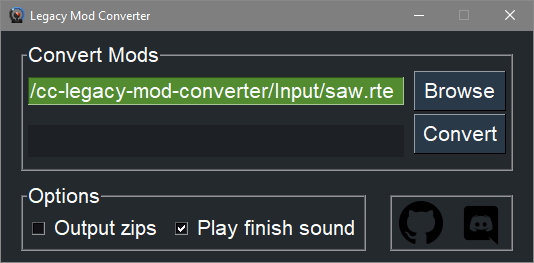
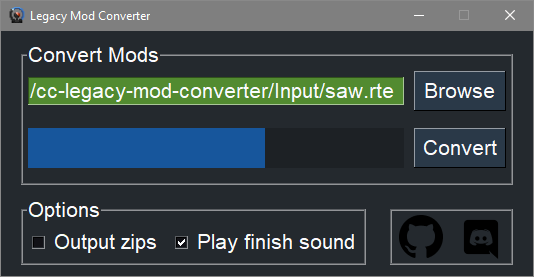
Made the README up-to-date.

diff --git a/Python/gui.py b/Python/gui.py
@@ -45,8 +45,8 @@ def init_window():
 			sg.FolderBrowse(size=(7, 1))
 		],
 		[
-			sg.ProgressBar(999, size=(34.2, 32), key="-PROGRESS BAR-"),
-			sg.Button("Convert", key="-CONVERT-", size=(7, 1), pad=((5, 0), (0, 15)))
+			sg.ProgressBar(999, size=(34.2, 40), key="-PROGRESS BAR-"),
+			sg.Button("Convert", key="-CONVERT-", size=(7, 1), pad=((5, 0), (14, 15)))
 		]
 		], title="Convert Mods")]
 	]

diff --git a/README.md b/README.md
@@ -5,31 +5,47 @@
 This project automates ***most*** of the conversion work required to convert the legacy (old) `Cortex Command` mods into `Cortex Command Community Project` compatible mods.
 
 ## Getting started
-Download the [***Legacy Mod Converter***](https://www.mediafire.com/file/cl3vfatqkoqmop1/Legacy+Mod+Converter.exe/file) program. Create a new folder and put your legacy mods that you want to convert in it. Run the Legacy Mod Converter program.
+Download the [***Legacy Mod Converter***](https://www.mediafire.com/file/cl3vfatqkoqmop1/Legacy+Mod+Converter.exe/file) program. Create a new folder and put your legacy mods that you want to convert in it. Open the Legacy Mod Converter program.
 
 <p align="center"><img src="Media/legacy-mod-converter-screenshot.png" alt="Legacy Mod Converter screenshot"></p>
 
 If you get a "`Microsoft Defender SmartScreen prevented an unrecognized app from starting. Running this app might put your PC at risk.`" popup message when trying to run the program you should press `More info` and then `Run anyway`.
 
 ## Disclaimer
-This program will do most of the conversion work for you, but some conversion steps are too hard to automate, so it's likely that `CCCP` will still crash or print errors in the console. If this happens you'll have to manually fix these issues in the legacy mod folder. If you want to properly fix these errors then you should download this repository and follow the instructions below so you can add your own conversion cases to `conversion_rules.py`.
+This program will do most of the conversion work for you, but even though this converter will already automatically apply more than 500 mod changes that have been made between Cortex Command and CCCP there are always more changes out there that haven't been added to the converter yet.
+
+It's for this reason that it's almost guaranteed that CCCP will still crash with a crash message or with errors in the console after conversion, but the point of this converter is to do 99% of the work for you, 100% is only realistic for some tiny mods. You'll want to manually fix these issues using the instructions in the next section.
+
+## What are conversion rules
+Conversion rules are a way of informing the program of the changes that have been made between Cortex Command and CCCP and how it can fix them. These conversion rules are stored in JSON files in the `ConversionRules` folder. You absolutely don't need to have any programming experience to start adding conversion rules to any of the JSON files.
+
+Take for example this line from `ConversionRules/Misc.json`:
+
+`"Round M16": "Round Ronin M16",`
+
+What this line of JSON says is that whenever the thing on the left is encountered in a mod, it should be replaced with whatever is on the right of it. So, this conversion rule says that whenever `Round M16` is encountered in a mod that's being converted it should be changed to `Round Ronin M16` by the converter.
+
+<p align="center"><img src="Media/conversion-rules-screenshot.png" alt="Conversion rules screenshot"></p>
 
 ## How to add your own conversion rules
-* Download Python 3 and this GitHub repository.
-* Change your directory to the `cc-legacy-mod-converter` repository in your terminal.
-* Run `python main.py` when you want to convert old mods.
-* `conversion_rules.py` has the `conversion_rules` dictionary inside of it. The dictionary contains entries that look like `'foo': 'bar',` which means means that any time `foo` is encountered in a legacy mod it will be replaced with `bar`. You can also add extra conversion cases to it; see the next sections on how to do this in detail.
+Open any of the JSON files in the `ConversionRules` folder and add the line `"": "",` in a similar manner to how the other lines are placed. You can then start putting stuff between the quotation marks on the left and right side like in the example in the section above. The converter will now know how to apply one more conversion rule.
+
+If you put the right things between the quotes that CCCP was complaining about then you can start the converter once more and you'll see that the crash/error should have disappeared. Repeat this process until the mod is fully converted and playable with no console errors (to check for console errors press the `` ` `` key in CCCP).
 
 ## Tutorials on constructing conversion rules efficiently
+
+### Programs that can help with creating conversion rules
+**You don’t need all of these programs to get started and feel free to use alternative programs:**
+
+* [Download “Everything”](https://voidtools.com/) - Like File Explorer on Windows. Very accurate and fast.
+* [Download “SourceTree”](https://www.sourcetreeapp.com/) - Like GitHub Desktop. Allows searching for specific words across all commits, which is super useful when for example you want to figure out what `Nanorifle` got changed to when that's crashing CCCP.
+* [Download “Notepad++”](https://notepad-plus-plus.org/downloads/) - Like Notepad. Allows mass replacing across thousands of files at once. You can also use an IDE like [VS Code](https://code.visualstudio.com/) for this purpose.
+
+### Tutorials on how to use the programs effectively.
 * [Fixing CCCP crashes/errors with the program Everything](https://github.com/cortex-command-community/Cortex-Command-Legacy-Mod-Converter/wiki/Fixing-CCCP-crashes-errors-with-the-program-Everything)
 
 ## Contributing
 Feel free to submit `Pull Requests` or `Issues` on this GitHub project for any additional cases that you'd like to have supported.
 
-**You don’t need all of these programs to get started and feel free to use alternative programs:**
-* [Download “Everything”](https://voidtools.com/) - Like File Explorer on Windows. Very fast.
-* [Download “SourceTree”](https://www.sourcetreeapp.com/) - Like GitHub Desktop. Allows searching for specific words across all commits.
-* [Download “NotePad++”](https://notepad-plus-plus.org/downloads/) - Like Notepad. Allows mass replacing across many files. You can also use an IDE like [VS Code](https://code.visualstudio.com/) instead for this.
-
 ## Getting help
-If you need help with anything, you can contact the creator of this repository directly (`#MyNameIsTrez1585` on Discord), or you can ask the friendly regulars in the CCCP Discord server in `#modding-discussion` for help. It helps us if you mention where you've gotten stuck while reading this tutorial, so please do that! :)
+If you need help with anything you can contact the creator of this repository directly (`#MyNameIsTrez1585` on Discord), or you can ask the friendly regulars in the CCCP Discord server in `#modding-discussion` for help. It helps us if you mention where you've gotten stuck while reading this tutorial, so please do that! :)
